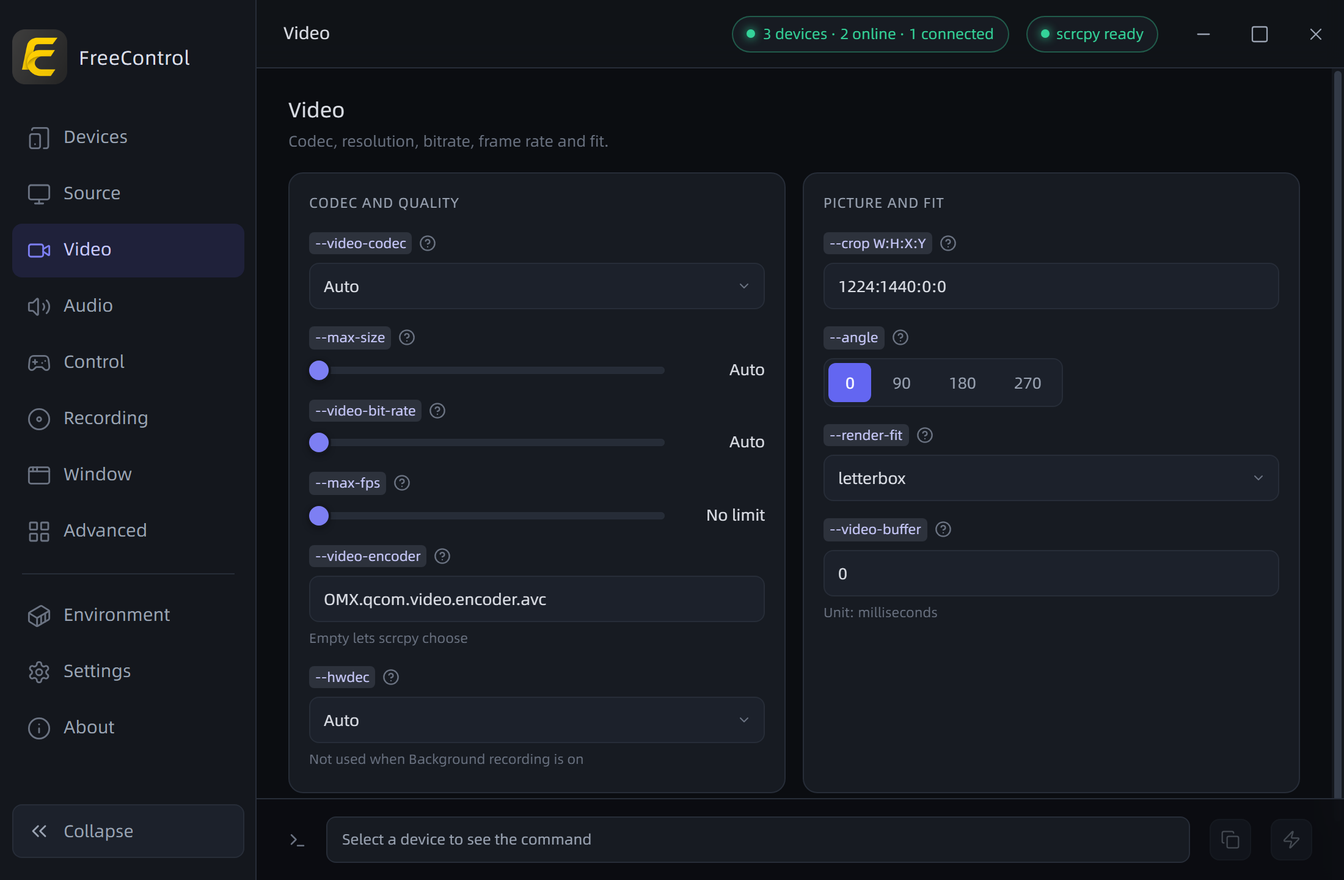
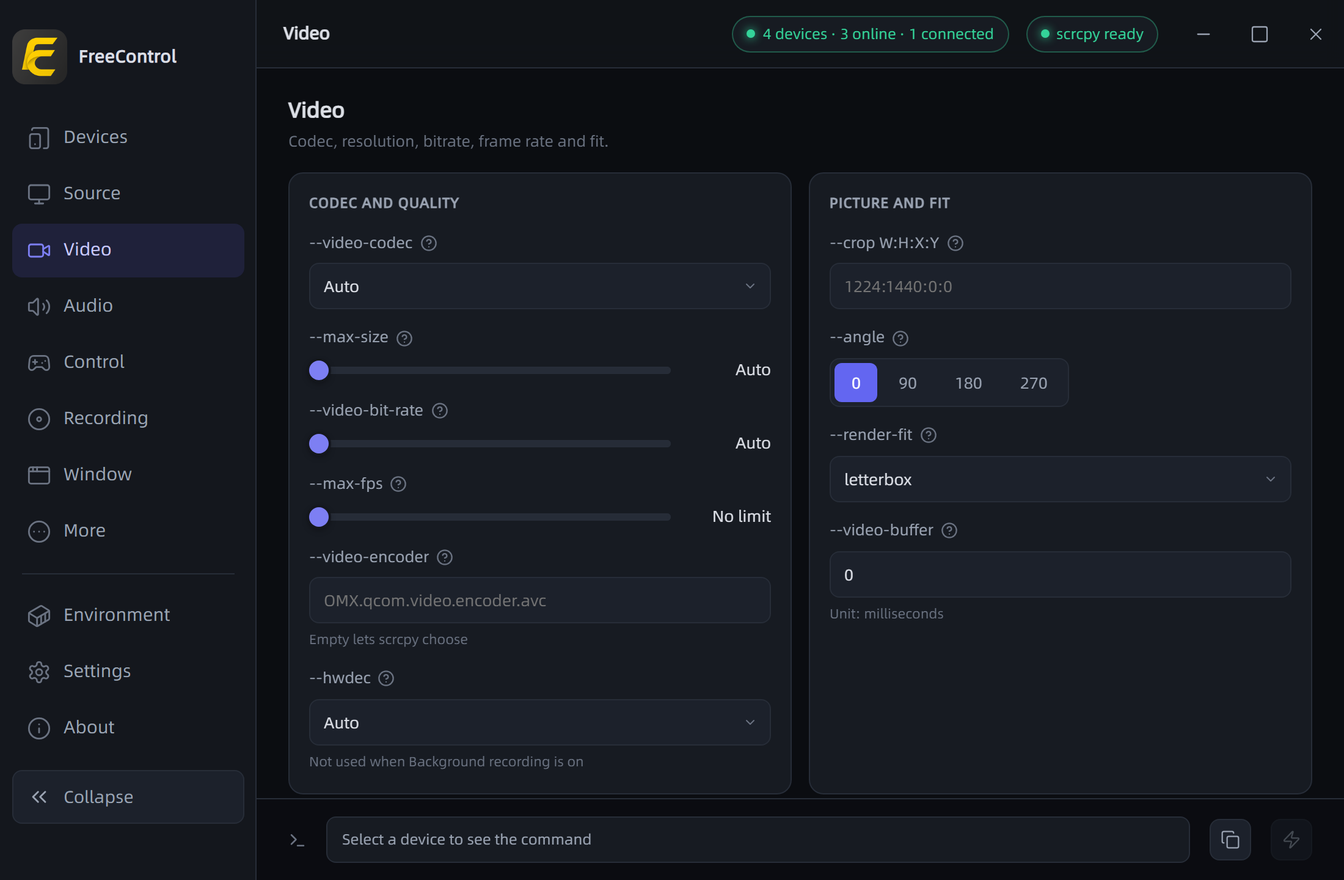
发行：版本升到 2.6.0，补更新日志并重截截图

diff --git a/ui-design/launcher-prototype.html b/ui-design/launcher-prototype.html
@@ -1305,12 +1305,12 @@
         <div class="grid">
           <div class="card">
             <h3>编码与画质</h3>
-            <div class="field"><span class="flabel">视频编码（--video-codec）<span class="fhelp">
-              <button class="fhelp-btn" type="button" aria-label="视频编码（--video-codec）的说明"><i data-lucide="circle-help"></i></button>
-              <span class="fhelp-panel"><span class="fhelp-title">视频编码（--video-codec）</span><span class="fhelp-p">选择视频编码格式。h264 是 scrcpy 的默认值，延迟最低；h265 画质更好但延迟更高；av1 在现有 Android 设备上的编码器还很罕见。</span><span class="fhelp-p">选「自动」时按 scrcpy 自身的默认决定。</span></span>
+            <div class="field"><span class="flabel">--video-codec<span class="fhelp">
+              <button class="fhelp-btn" type="button" aria-label="--video-codec 的说明"><i data-lucide="circle-help"></i></button>
+              <span class="fhelp-panel"><span class="fhelp-title">--video-codec</span><span class="fhelp-p">选择视频编码格式。h264 是 scrcpy 的默认值，延迟最低；h265 画质更好但延迟更高；av1 在现有 Android 设备上的编码器还很罕见。</span><span class="fhelp-p">选「自动」时按 scrcpy 自身的默认决定。</span></span>
             </span></span><div class="sel" data-g="video" data-k="videoCodec" data-t="select" data-v="">
-                <button class="sel-trigger" type="button" role="combobox" aria-haspopup="listbox" aria-expanded="false" aria-label="视频编码（--video-codec）"><span class="sel-text">自动</span><i data-lucide="chevron-down"></i></button>
-                <div class="sel-list hidden" role="listbox" aria-label="视频编码（--video-codec）">
+                <button class="sel-trigger" type="button" role="combobox" aria-haspopup="listbox" aria-expanded="false" aria-label="--video-codec"><span class="sel-text">自动</span><i data-lucide="chevron-down"></i></button>
+                <div class="sel-list hidden" role="listbox" aria-label="--video-codec">
                   <button class="sel-opt" type="button" role="option" tabindex="-1" data-v="" aria-selected="true">自动</button>
                   <button class="sel-opt" type="button" role="option" tabindex="-1" data-v="h264" aria-selected="false">h264</button>
                   <button class="sel-opt" type="button" role="option" tabindex="-1" data-v="h265" aria-selected="false">h265</button>
@@ -1319,32 +1319,32 @@
                   <button class="sel-opt" type="button" role="option" tabindex="-1" data-v="vp9" aria-selected="false">vp9</button>
                 </div>
               </div></div>
-            <div class="field"><span class="flabel">长边分辨率（--max-size）<span class="fhelp">
-              <button class="fhelp-btn" type="button" aria-label="长边分辨率（--max-size）的说明"><i data-lucide="circle-help"></i></button>
-              <span class="fhelp-panel"><span class="fhelp-title">长边分辨率（--max-size）</span><span class="fhelp-p">限制画面宽与高的最大值，另一边按设备比例推算（Flex Display 除外）。</span><span class="fhelp-p">摄像头源下它不裁剪画面，而是用于从摄像头支持的尺寸里挑接近的一档。</span></span>
+            <div class="field"><span class="flabel">--max-size<span class="fhelp">
+              <button class="fhelp-btn" type="button" aria-label="--max-size 的说明"><i data-lucide="circle-help"></i></button>
+              <span class="fhelp-panel"><span class="fhelp-title">--max-size</span><span class="fhelp-p">限制画面宽与高的最大值，另一边按设备比例推算（Flex Display 除外）。</span><span class="fhelp-p">摄像头源下它不裁剪画面，而是用于从摄像头支持的尺寸里挑接近的一档。</span></span>
             </span></span>
               <div class="range-row"><input type="range" min="0" max="2560" step="64" value="0" data-g="video" data-k="maxSize" data-t="range" id="vSize" /><span class="range-val" id="vSizeVal">自动</span></div></div>
-            <div class="field"><span class="flabel">视频码率（--video-bit-rate）<span class="fhelp">
-              <button class="fhelp-btn" type="button" aria-label="视频码率（--video-bit-rate）的说明"><i data-lucide="circle-help"></i></button>
-              <span class="fhelp-panel"><span class="fhelp-title">视频码率（--video-bit-rate）</span><span class="fhelp-p">视频编码的比特率，scrcpy 默认 8 Mbps。</span><span class="fhelp-p">越高画面越清晰，占用的带宽与解码资源也越多。</span></span>
+            <div class="field"><span class="flabel">--video-bit-rate<span class="fhelp">
+              <button class="fhelp-btn" type="button" aria-label="--video-bit-rate 的说明"><i data-lucide="circle-help"></i></button>
+              <span class="fhelp-panel"><span class="fhelp-title">--video-bit-rate</span><span class="fhelp-p">视频编码的比特率，scrcpy 默认 8 Mbps。</span><span class="fhelp-p">越高画面越清晰，占用的带宽与解码资源也越多。</span></span>
             </span></span>
               <div class="range-row"><input type="range" min="0" max="64" value="0" data-g="video" data-k="bitrate" data-t="range" id="vBitrate" /><span class="range-val" id="vBitrateVal">自动</span></div></div>
-            <div class="field"><span class="flabel">最大帧率（--max-fps）<span class="fhelp">
-              <button class="fhelp-btn" type="button" aria-label="最大帧率（--max-fps）的说明"><i data-lucide="circle-help"></i></button>
-              <span class="fhelp-panel"><span class="fhelp-title">最大帧率（--max-fps）</span><span class="fhelp-p">限制采集帧率，Android 10 起获得官方支持。</span><span class="fhelp-p">实际帧率随画面变化：静止画面不会跑满上限。</span></span>
+            <div class="field"><span class="flabel">--max-fps<span class="fhelp">
+              <button class="fhelp-btn" type="button" aria-label="--max-fps 的说明"><i data-lucide="circle-help"></i></button>
+              <span class="fhelp-panel"><span class="fhelp-title">--max-fps</span><span class="fhelp-p">限制采集帧率，Android 10 起获得官方支持。</span><span class="fhelp-p">实际帧率随画面变化：静止画面不会跑满上限。</span></span>
             </span></span>
               <div class="range-row"><input type="range" min="0" max="240" value="0" data-g="video" data-k="maxFps" data-t="range" id="vFps" /><span class="range-val" id="vFpsVal">不限制</span></div></div>
-            <div class="field"><span class="flabel">视频编码器（--video-encoder）<span class="fhelp">
-              <button class="fhelp-btn" type="button" aria-label="视频编码器（--video-encoder）的说明"><i data-lucide="circle-help"></i></button>
-              <span class="fhelp-panel"><span class="fhelp-title">视频编码器（--video-encoder）</span><span class="fhelp-p">指定 MediaCodec 视频编码器（可用的编码器名随 --video-codec 的编码格式而定）。</span><span class="fhelp-p">可用 scrcpy --list-encoders 列出设备上可用的编码器。</span></span>
+            <div class="field"><span class="flabel">--video-encoder<span class="fhelp">
+              <button class="fhelp-btn" type="button" aria-label="--video-encoder 的说明"><i data-lucide="circle-help"></i></button>
+              <span class="fhelp-panel"><span class="fhelp-title">--video-encoder</span><span class="fhelp-p">指定 MediaCodec 视频编码器（可用的编码器名随 --video-codec 的编码格式而定）。</span><span class="fhelp-p">可用 scrcpy --list-encoders 列出设备上可用的编码器。</span></span>
             </span></span><input type="text" data-g="video" data-k="videoEncoder" data-t="text" value="" placeholder="OMX.qcom.video.encoder.avc" />
               <div class="hint">留空由 scrcpy 自动选择</div></div>
-            <div class="field"><span class="flabel">硬件解码（--hwdec）<span class="fhelp">
-              <button class="fhelp-btn" type="button" aria-label="硬件解码（--hwdec）的说明"><i data-lucide="circle-help"></i></button>
-              <span class="fhelp-panel"><span class="fhelp-title">硬件解码（--hwdec）</span><span class="fhelp-p">「自动」= 不传该 flag：scrcpy 使用第一个可用的硬件解码器，无法解码时回退软件解码。</span><span class="fhelp-p">disabled 强制纯软件解码；vaapi 仅 Linux（需系统安装 VA-API 驱动，X11 上还要求 EGL 渲染器）；d3d11va 仅 Windows。显式指定后若硬件解码不可用，scrcpy 直接报错退出。</span><span class="fhelp-p">与「后台录制」（--no-window）互斥：该模式隐含 --no-video-playback，而硬件解码要求 video playback；disabled 不受此限。</span><span class="fhelp-p">需要 scrcpy 5.0 及以上。</span></span>
+            <div class="field"><span class="flabel">--hwdec<span class="fhelp">
+              <button class="fhelp-btn" type="button" aria-label="--hwdec 的说明"><i data-lucide="circle-help"></i></button>
+              <span class="fhelp-panel"><span class="fhelp-title">--hwdec</span><span class="fhelp-p">「自动」= 不传该 flag：scrcpy 使用第一个可用的硬件解码器，无法解码时回退软件解码。</span><span class="fhelp-p">disabled 强制纯软件解码；vaapi 仅 Linux（需系统安装 VA-API 驱动，X11 上还要求 EGL 渲染器）；d3d11va 仅 Windows。显式指定后若硬件解码不可用，scrcpy 直接报错退出。</span><span class="fhelp-p">与「后台录制」（--no-window）互斥：该模式隐含 --no-video-playback，而硬件解码要求 video playback；disabled 不受此限。</span><span class="fhelp-p">需要 scrcpy 5.0 及以上。</span></span>
             </span></span><div class="sel" data-g="video" data-k="hwdec" data-t="select" data-v="">
-                <button class="sel-trigger" type="button" role="combobox" aria-haspopup="listbox" aria-expanded="false" aria-label="硬件解码（--hwdec）"><span class="sel-text">自动</span><i data-lucide="chevron-down"></i></button>
-                <div class="sel-list hidden" role="listbox" aria-label="硬件解码（--hwdec）">
+                <button class="sel-trigger" type="button" role="combobox" aria-haspopup="listbox" aria-expanded="false" aria-label="--hwdec"><span class="sel-text">自动</span><i data-lucide="chevron-down"></i></button>
+                <div class="sel-list hidden" role="listbox" aria-label="--hwdec">
                   <button class="sel-opt" type="button" role="option" tabindex="-1" data-v="" aria-selected="true">自动</button>
                   <button class="sel-opt" type="button" role="option" tabindex="-1" data-v="disabled" aria-selected="false">disabled</button>
                   <button class="sel-opt" type="button" role="option" tabindex="-1" data-v="vaapi" aria-selected="false">vaapi</button>
@@ -1355,28 +1355,28 @@
           </div>
           <div class="card">
             <h3>画面与适配</h3>
-            <div class="field"><span class="flabel">裁剪（--crop W:H:X:Y）<span class="fhelp">
-              <button class="fhelp-btn" type="button" aria-label="裁剪（--crop W:H:X:Y）的说明"><i data-lucide="circle-help"></i></button>
-              <span class="fhelp-panel"><span class="fhelp-title">裁剪（--crop W:H:X:Y）</span><span class="fhelp-p">在设备端裁剪画面，四个分量的顺序是「宽:高:x:y」，其中 x、y 是裁剪区域左上角的坐标。</span><span class="fhelp-p">坐标以设备自然方向为基准（手机竖放、平板横放）。</span><span class="fhelp-p">Flex Display 下不生效。</span></span>
+            <div class="field"><span class="flabel">--crop W:H:X:Y<span class="fhelp">
+              <button class="fhelp-btn" type="button" aria-label="--crop W:H:X:Y 的说明"><i data-lucide="circle-help"></i></button>
+              <span class="fhelp-panel"><span class="fhelp-title">--crop W:H:X:Y</span><span class="fhelp-p">在设备端裁剪画面，四个分量的顺序是「宽:高:x:y」，其中 x、y 是裁剪区域左上角的坐标。</span><span class="fhelp-p">坐标以设备自然方向为基准（手机竖放、平板横放）。</span><span class="fhelp-p">Flex Display 下不生效。</span></span>
             </span></span><input type="text" data-g="video" data-k="crop" data-t="text" placeholder="1224:1440:0:0" /></div>
-            <div class="field"><span class="flabel">旋转角度（--angle）<span class="fhelp">
-              <button class="fhelp-btn" type="button" aria-label="旋转角度（--angle）的说明"><i data-lucide="circle-help"></i></button>
-              <span class="fhelp-panel"><span class="fhelp-title">旋转角度（--angle）</span><span class="fhelp-p">按给定角度顺时针旋转画面内容，可填任意角度，界面给出 0 / 90 / 180 / 270 四档。</span><span class="fhelp-p">只改变画面呈现，不影响录制文件的方向（录制方向由 --record-orientation 单独决定）。</span></span>
+            <div class="field"><span class="flabel">--angle<span class="fhelp">
+              <button class="fhelp-btn" type="button" aria-label="--angle 的说明"><i data-lucide="circle-help"></i></button>
+              <span class="fhelp-panel"><span class="fhelp-title">--angle</span><span class="fhelp-p">按给定角度顺时针旋转画面内容，可填任意角度，界面给出 0 / 90 / 180 / 270 四档。</span><span class="fhelp-p">只改变画面呈现，不影响录制文件的方向（录制方向由 --record-orientation 单独决定）。</span></span>
             </span></span><div class="seg" data-g="video" data-k="angle" data-t="seg"><button class="active" data-v="0">0</button><button data-v="90">90</button><button data-v="180">180</button><button data-v="270">270</button></div></div>
-            <div class="field"><span class="flabel">渲染适配（--render-fit）<span class="fhelp">
-              <button class="fhelp-btn" type="button" aria-label="渲染适配（--render-fit）的说明"><i data-lucide="circle-help"></i></button>
-              <span class="fhelp-panel"><span class="fhelp-title">渲染适配（--render-fit）</span><span class="fhelp-p">控制画面在窗口里的适配方式。</span><span class="fhelp-p">letterbox 保持宽高比，多出的区域留边；stretched 拉满窗口、不保持宽高比；unscaled 按像素一比一显示，窗口小于画面时只能看到一部分。</span></span>
+            <div class="field"><span class="flabel">--render-fit<span class="fhelp">
+              <button class="fhelp-btn" type="button" aria-label="--render-fit 的说明"><i data-lucide="circle-help"></i></button>
+              <span class="fhelp-panel"><span class="fhelp-title">--render-fit</span><span class="fhelp-p">控制画面在窗口里的适配方式。</span><span class="fhelp-p">letterbox 保持宽高比，多出的区域留边；stretched 拉满窗口、不保持宽高比；unscaled 按像素一比一显示，窗口小于画面时只能看到一部分。</span></span>
             </span></span><div class="sel" data-g="video" data-k="renderFit" data-t="select" data-v="letterbox">
-                <button class="sel-trigger" type="button" role="combobox" aria-haspopup="listbox" aria-expanded="false" aria-label="渲染适配（--render-fit）"><span class="sel-text">letterbox</span><i data-lucide="chevron-down"></i></button>
-                <div class="sel-list hidden" role="listbox" aria-label="渲染适配（--render-fit）">
+                <button class="sel-trigger" type="button" role="combobox" aria-haspopup="listbox" aria-expanded="false" aria-label="--render-fit"><span class="sel-text">letterbox</span><i data-lucide="chevron-down"></i></button>
+                <div class="sel-list hidden" role="listbox" aria-label="--render-fit">
                   <button class="sel-opt" type="button" role="option" tabindex="-1" data-v="letterbox" aria-selected="true">letterbox</button>
                   <button class="sel-opt" type="button" role="option" tabindex="-1" data-v="stretched" aria-selected="false">stretched</button>
                   <button class="sel-opt" type="button" role="option" tabindex="-1" data-v="unscaled" aria-selected="false">unscaled</button>
                 </div>
               </div></div>
-            <div class="field"><span class="flabel">视频缓冲（--video-buffer）<span class="fhelp">
-              <button class="fhelp-btn" type="button" aria-label="视频缓冲（--video-buffer）的说明"><i data-lucide="circle-help"></i></button>
-              <span class="fhelp-panel"><span class="fhelp-title">视频缓冲（--video-buffer）</span><span class="fhelp-p">在显示前增加一段缓冲，用来吸收网络抖动。</span><span class="fhelp-p">它以减少卡顿为代价换来画面延迟增加；局域网直连通常不需要。</span></span>
+            <div class="field"><span class="flabel">--video-buffer<span class="fhelp">
+              <button class="fhelp-btn" type="button" aria-label="--video-buffer 的说明"><i data-lucide="circle-help"></i></button>
+              <span class="fhelp-panel"><span class="fhelp-title">--video-buffer</span><span class="fhelp-p">在显示前增加一段缓冲，用来吸收网络抖动。</span><span class="fhelp-p">它以减少卡顿为代价换来画面延迟增加；局域网直连通常不需要。</span></span>
             </span></span><input type="number" data-g="video" data-k="videoBuffer" data-t="number" value="0" /><div class="hint">单位：毫秒</div></div>
           </div>
         </div>
@@ -2474,7 +2474,6 @@
   "列出摄像头": "List cameras",
   "编码、分辨率、码率、帧率与画面适配。": "Codec, resolution, bitrate, frame rate and fit.",
   "编码与画质": "Codec and quality",
-  "视频编码（--video-codec）": "Video codec (--video-codec)",
   "选择视频编码格式。h264 是 scrcpy 的默认值，延迟最低；h265 画质更好但延迟更高；av1 在现有 Android 设备上的编码器还很罕见。": "Choose the video codec. h264 is the scrcpy default and has the lowest latency; h265 has better quality but higher latency; av1 encoders are still rare on current Android devices.",
   "选「自动」时按 scrcpy 自身的默认决定。": "With Auto, scrcpy uses its own default.",
   "长边分辨率（--max-size）": "Max size (--max-size)",
@@ -2487,11 +2486,9 @@
   "限制采集帧率，Android 10 起获得官方支持。": "Limit the capture frame rate; officially supported since Android 10.",
   "实际帧率随画面变化：静止画面不会跑满上限。": "The actual frame rate varies with the picture; a static screen will not reach the limit.",
   "不限制": "No limit",
-  "视频编码器（--video-encoder）": "Video encoder (--video-encoder)",
   "指定 MediaCodec 视频编码器（可用的编码器名随 --video-codec 的编码格式而定）。": "Specify a MediaCodec video encoder (available encoder names depend on the codec selected with --video-codec).",
   "可用 scrcpy --list-encoders 列出设备上可用的编码器。": "Use scrcpy --list-encoders to list available encoders on the device.",
   "留空由 scrcpy 自动选择": "Empty lets scrcpy choose",
-  "硬件解码（--hwdec）": "Hardware decoding (--hwdec)",
   "「自动」= 不传该 flag：scrcpy 使用第一个可用的硬件解码器，无法解码时回退软件解码。": "Auto = omit the flag: scrcpy uses the first available hardware decoder and falls back to software decoding if needed.",
   "disabled 强制纯软件解码；vaapi 仅 Linux（需系统安装 VA-API 驱动，X11 上还要求 EGL 渲染器）；d3d11va 仅 Windows。显式指定后若硬件解码不可用，scrcpy 直接报错退出。": "disabled forces software decoding; vaapi is Linux only (requires VA-API drivers, and the EGL renderer on X11); d3d11va is Windows only. If hardware decoding is unavailable after an explicit choice, scrcpy exits with an error.",
   "与「后台录制」（--no-window）互斥：该模式隐含 --no-video-playback，而硬件解码要求 video playback；disabled 不受此限。": "Conflicts with Background recording (--no-window): that mode implies --no-video-playback, while hardware decoding requires video playback; disabled is not affected.",
@@ -2502,13 +2499,10 @@
   "在设备端裁剪画面，四个分量的顺序是「宽:高:x:y」，其中 x、y 是裁剪区域左上角的坐标。": "Crop the picture on the device. The four components are width:height:x:y, where x and y are the top-left corner of the crop area.",
   "坐标以设备自然方向为基准（手机竖放、平板横放）。": "Coordinates use the device natural orientation (portrait phone, landscape tablet).",
   "Flex Display 下不生效。": "Not used with Flex Display.",
-  "旋转角度（--angle）": "Angle (--angle)",
   "按给定角度顺时针旋转画面内容，可填任意角度，界面给出 0 / 90 / 180 / 270 四档。": "Rotate the picture clockwise by the given angle; any angle is allowed, and the UI offers 0 / 90 / 180 / 270.",
   "只改变画面呈现，不影响录制文件的方向（录制方向由 --record-orientation 单独决定）。": "Only changes the picture; it does not affect the recorded file direction (set separately with --record-orientation).",
-  "渲染适配（--render-fit）": "Render fit (--render-fit)",
   "控制画面在窗口里的适配方式。": "Controls how the picture fits the window.",
   "letterbox 保持宽高比，多出的区域留边；stretched 拉满窗口、不保持宽高比；unscaled 按像素一比一显示，窗口小于画面时只能看到一部分。": "letterbox keeps the aspect ratio and adds margins; stretched fills the window without preserving the aspect ratio; unscaled shows pixels 1:1, so only part of the picture is visible when the window is smaller.",
-  "视频缓冲（--video-buffer）": "Video buffer (--video-buffer)",
   "在显示前增加一段缓冲，用来吸收网络抖动。": "Add a buffer before display to absorb network jitter.",
   "它以减少卡顿为代价换来画面延迟增加；局域网直连通常不需要。": "It reduces stutter at the cost of higher latency; usually unnecessary on a direct LAN connection.",
   "单位：毫秒": "Unit: milliseconds",
@@ -2870,16 +2864,16 @@
   "帧率（--camera-fps）的说明": "About Frame rate (--camera-fps)",
   "初始缩放（--camera-zoom）的说明": "About Initial zoom (--camera-zoom)",
   "开启闪光灯（--camera-torch）的说明": "About Torch (--camera-torch)",
-  "视频编码（--video-codec）的说明": "About Video codec (--video-codec)",
-  "长边分辨率（--max-size）的说明": "About Max size (--max-size)",
-  "视频码率（--video-bit-rate）的说明": "About Video bit rate (--video-bit-rate)",
-  "最大帧率（--max-fps）的说明": "About Max frame rate (--max-fps)",
-  "视频编码器（--video-encoder）的说明": "About Video encoder (--video-encoder)",
-  "硬件解码（--hwdec）的说明": "About Hardware decoding (--hwdec)",
-  "裁剪（--crop W:H:X:Y）的说明": "About Crop (--crop W:H:X:Y)",
-  "旋转角度（--angle）的说明": "About Angle (--angle)",
-  "渲染适配（--render-fit）的说明": "About Render fit (--render-fit)",
-  "视频缓冲（--video-buffer）的说明": "About Video buffer (--video-buffer)",
+  "--video-codec 的说明": "About --video-codec",
+  "--max-size 的说明": "About --max-size",
+  "--video-bit-rate 的说明": "About --video-bit-rate",
+  "--max-fps 的说明": "About --max-fps",
+  "--video-encoder 的说明": "About --video-encoder",
+  "--hwdec 的说明": "About --hwdec",
+  "--crop W:H:X:Y 的说明": "About --crop W:H:X:Y",
+  "--angle 的说明": "About --angle",
+  "--render-fit 的说明": "About --render-fit",
+  "--video-buffer 的说明": "About --video-buffer",
   "禁用音频转发（--no-audio 开启）的说明": "About Disable audio forwarding (--no-audio on)",
   "音频源（--audio-source）的说明": "About Audio source (--audio-source)",
   "音频编码（--audio-codec）的说明": "About Audio codec (--audio-codec)",
@@ -3329,7 +3323,10 @@
      当前取值与 doc/scrcpy/meson.build 保持一致。
      ============================================================ */
   const SCRCPY_VERSION = '5.0.1';
-  const SCRCPY_DIR     = `%APPDATA%\\FreeControl2\\scrcpy-win64-v${SCRCPY_VERSION}`;
+  // 产品侧目录值展示的是解析后的完整路径，约定路径（%APPDATA%）只出现在 `?` 详情里；
+  // 原型同样拆成两个常量：SCRCPY_DIR 是输入框里的演示完整路径，SCRCPY_DIR_HINT 是详情里的约定目录。
+  const SCRCPY_DIR      = `C:\\Users\\Admin\\AppData\\Roaming\\FreeControl2\\scrcpy-win64-v${SCRCPY_VERSION}`;
+  const SCRCPY_DIR_HINT = `%APPDATA%\\FreeControl2\\scrcpy-win64-v${SCRCPY_VERSION}`;
   const SCRCPY_ZIP     = `scrcpy-win64-v${SCRCPY_VERSION}.zip`;
   // 平台标签在产品里由「操作系统 × 架构」二维查表决定（win64 / linux-x86_64 / …，标签
   // 同时决定目录名与官方资产名），原型是 Windows 基线，故演示常量写死 win64 这一行取值。
@@ -3342,9 +3339,9 @@
      正式实现中：该值由 Tauri 的 getVersion()（取 tauri.conf.json 的构建期版本）下发，
      前端一律通过该 API 读取，页面里不得写版本字面量（见 about-page design D5）。
      ============================================================ */
-  const APP_VERSION = '2.5.1';
+  const APP_VERSION = '2.6.0';
   // 原型演示用的模拟最新版；产品侧由 GitHub 最新正式发行下发，不写死在界面里。
-  const UPDATE_LATEST_VERSION = '2.5.2';
+  const UPDATE_LATEST_VERSION = '2.6.1';
 
   // 每台设备的参数覆盖（仅覆盖的字段）
   const overrides = {};
@@ -5716,11 +5713,11 @@
 
   /* ---- 版本信息统一注入：页面所有版本展示都取自上面那两处版本常量（scrcpy 与应用各一处）---- */
   scrcpyPathEl.value = SCRCPY_DIR;
-  // 目录字段——约定目录文字（产品侧由后端下发的 dirHint 拼成；原型取同一个目录常量）。
+  // 目录字段——约定目录文字（产品侧由后端下发的 dirHint 拼成；原型取 SCRCPY_DIR_HINT）。
   // 它现在住在 `?` 详情的第一句里：字段下方不再有常驻说明（该目录的完整路径已由上面的输入框展示），
   // 句子骨架写在 HTML 里，这里只填路径。
   // 路径输入框里贴的是资源管理器/命令行里的写法（反斜杠），说明文字与产品侧一致用正斜杠。
-  envDirHint.textContent = SCRCPY_DIR.replace(/\\/g, '/');
+  envDirHint.textContent = SCRCPY_DIR_HINT.replace(/\\/g, '/');
   // 状态字段的就绪指示与原因说明：演示态恒为「已就绪 · 与最佳适配一致」，取值一律取自
   // 版本常量，不另写一份字面量（产品侧的就绪文字 = 「已就绪 · scrcpy {installed}（含 adb）」）。
   envStatePill.innerHTML = `<i data-lucide="circle-check"></i>已就绪 · scrcpy ${SCRCPY_VERSION}（含 adb）`;

diff --git a/Update.en.md b/Update.en.md
@@ -2,17 +2,23 @@
 
 <a href="Update.md">中文</a> | English
 
-## v2.5.2
+## v2.6.0
 
 ### New
 
 - Each device card now has APP List: it reads the launchable apps from the phone, supports search and sorting by default order, name or package, and can open an app in the current mirror or in a new window; with no mirror running, Open starts one. The chosen app applies to that launch only and does not overwrite your start-app settings. (#150)
 - Multiple mirror windows can now run for the same device; they take part in disconnecting, logs and window arrangement like any other session.
+- Apps in APP List can be pinned to a Pinned group at the top, and sorted by Recent; pins and each sort direction are remembered across restarts.
 
 ### Improved
 
 - The sidebar page formerly called Advanced is now More, with a circled three-dot icon; same place, same contents.
 - Session output is listed per window in Settings, so multiple sessions of the same device can be viewed and stopped individually; Disconnect on the device card ends all windows for that device.
+- A dialog can be moved by dragging its top bar, and double-clicking that bar toggles maximize and restore; the whole icon row is draggable, and double-clicking it no longer closes the dialog by accident.
+- The connection badge on a device card now sits on the name row; the parameter entry in compact mode is an icon, with a small badge showing whether parameters are enabled, and the parameter and rename buttons now have proper tooltips.
+- APP List now matches the device list width; each sort mode remembers its own direction, and opening an app keeps the dialog open so you can launch the next one.
+- The six dialogs bring back their scale-open animation, with the backdrop fading in in step.
+- The About and update dialog can now be moved by dragging its top bar.
 
 ## v2.5.1
 

diff --git a/Update.md b/Update.md
@@ -2,17 +2,23 @@
 
 中文 | <a href="Update.en.md">English</a>
 
-## v2.5.2
+## v2.6.0
 
 ### 新增
 
 - 设备卡新增「应用列表」：直接读取手机上的可启动应用，支持搜索，以及按默认、名称或包名排序；每个应用可以「打开」到当前投屏，或「新窗口打开」再开一个投屏窗口，没有投屏时「打开」会先启动一个。所选应用只在本次打开时生效，不会改写你的启动应用配置。（#150）
 - 同一台设备可以同时打开多个投屏窗口；新增的窗口和普通会话一样参与断开、日志与自动排列。
+- 应用列表可以把常用应用固定到顶部的「已固定」分组，也支持按「最近打开」排序；固定和排序方向都会记住，重启后还在。
 
 ### 改进
 
 - 侧栏里原来叫「高级」的那一页改名为「更多」，图标也从四宫格换成了圆圈三点；位置和里面的内容都没有变。
 - 会话输出在设置页按窗口分别列出，同一设备的多条会话可逐条查看与结束；设备卡的「断开」会结束该设备的全部窗口。
+- 弹窗顶部条可以按住拖动窗口，双击在最大化与还原之间切换；图标所在的整行都能拖，双击图标也不会再把弹窗关掉。
+- 设备卡的连接标识挪到了设备名称那一行；简洁模式下的参数入口改成图标，启用状态用小角标标在按钮上，参数和重命名按钮的提示也补齐了。
+- 应用列表与设备列表改成同宽；各排序方式分别记住升降方向，从应用列表打开应用后弹窗保持打开，可以接着开下一个。
+- 六个弹窗恢复了缩放开合的出场效果，遮罩与面板同步淡入。
+- 关于与更新弹窗也能拖动窗口了。
 
 ## v2.5.1
 
